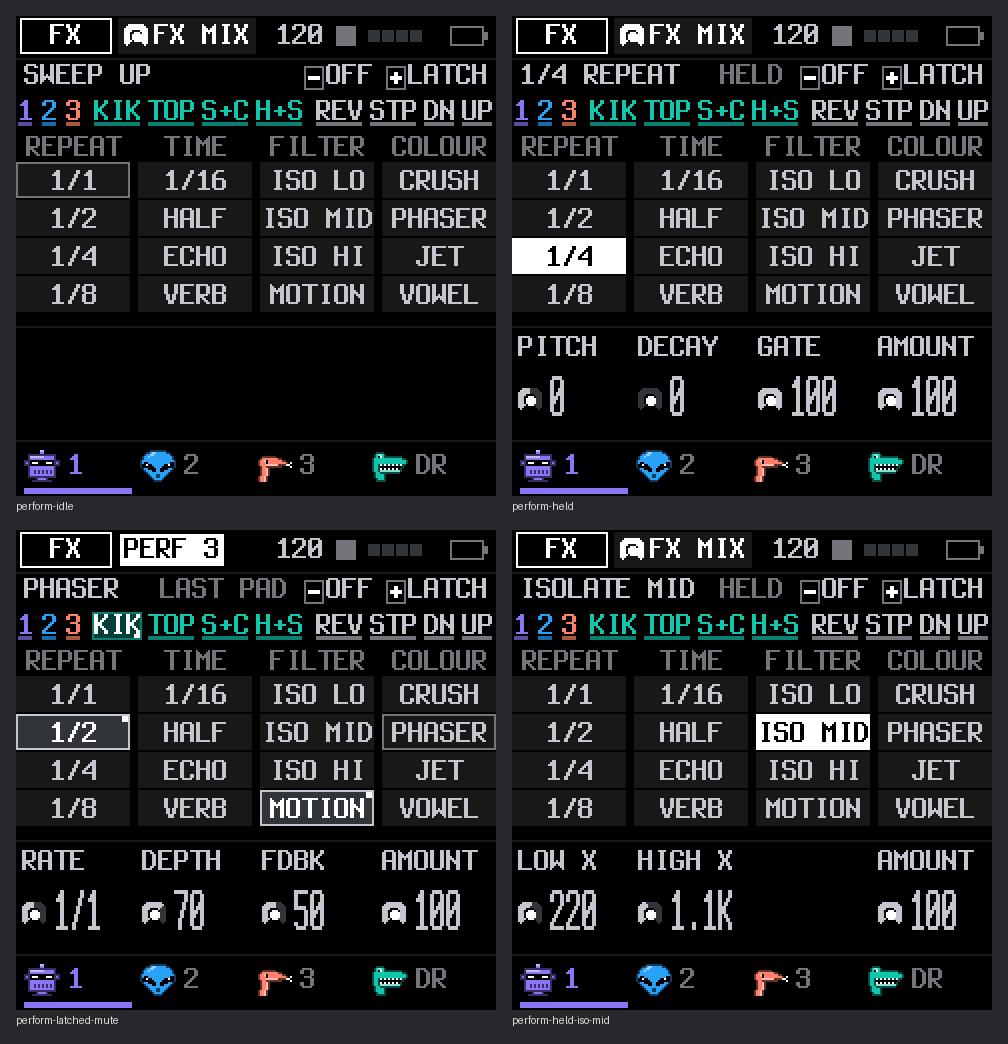
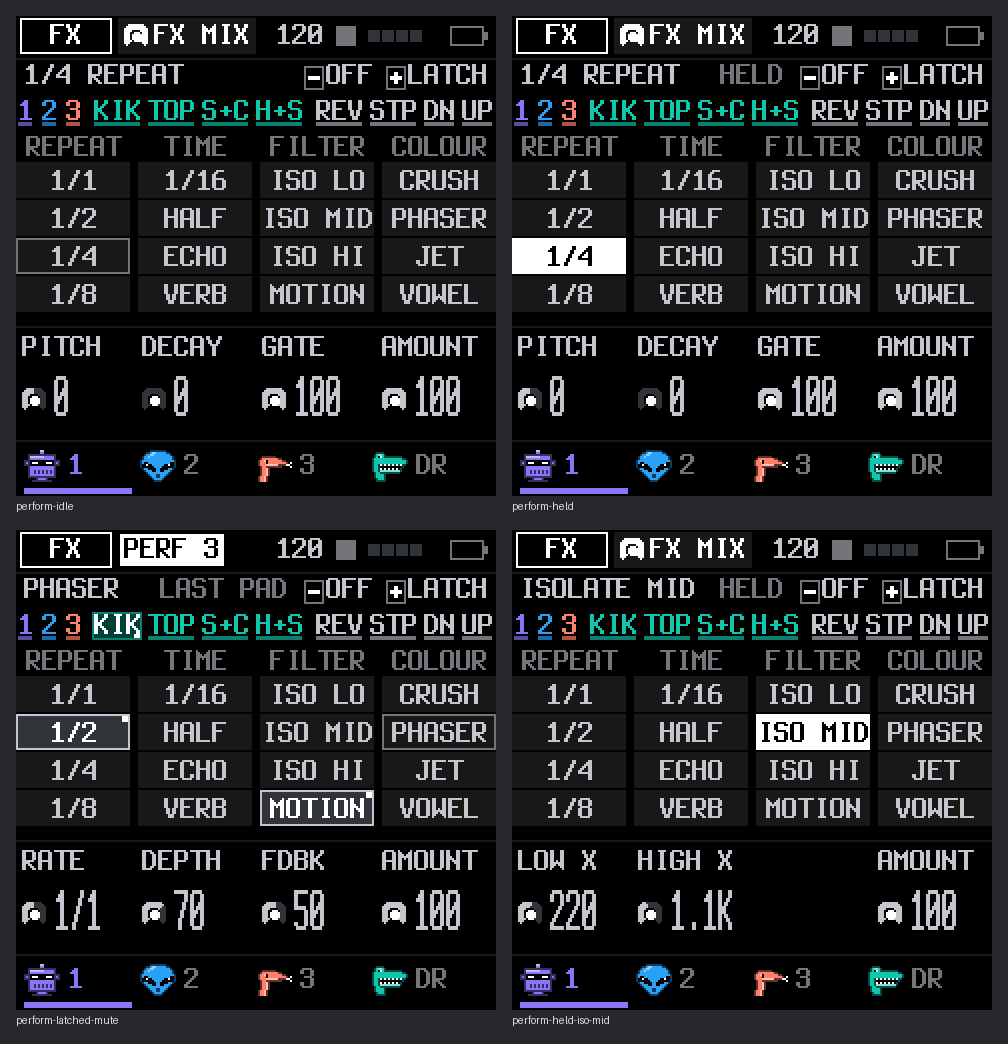
review: PERFORM idle with a last pad
Claude-Session: https://claude.ai/code/session_01XcKDzzW9aw58RdBnowjoVw

diff --git a/tests/ui_pages_test.c b/tests/ui_pages_test.c
@@ -3157,7 +3157,8 @@ int main(int argc, char **argv)
             ok &= bx[3] - bx[2] - bw[2] > bx[4] - bx[3] - bw[3] && bx[7] - bx[6] - bw[6] > bx[8] - bx[7] - bw[7];
             ok &= PF_Y + PF_BK_Y >= 40 && PF_BK_Y + PF_BK_H <= PF_HEAD_Y;   /* (under the caption, over the headings) */
             check(ok, "PERFORM in columns: the 11 black keys one row in key order, apart, the three groups wider apart, inside 240 px");
-            perf.last = PF_S1; ui.force = 1; frame(); ppm("perform-idle");
+            fm1_in.notes = 1u << key_of_white(2); frames(2); fm1_in.notes = 0; frames(2);   /* (1/4 the last pad) */
+            ui.force = 1; frame(); ppm("perform-idle");
             {   /* each name and line drawn inside its chip, nothing between (no frame: the last pad a white key's) */
                 uint32_t x, y, lit = 0, out = 0;
                 for (y = PF_Y + PF_BK_Y - 1u; y < PF_Y + PF_BK_Y + PF_BK_H + 1u; y++)
